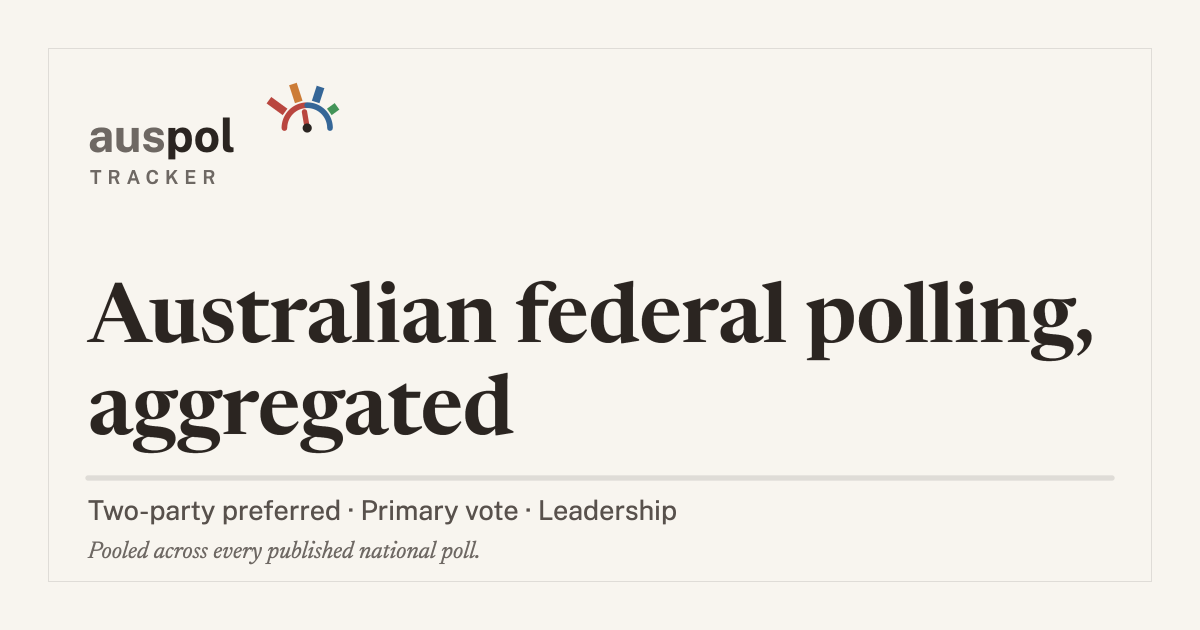
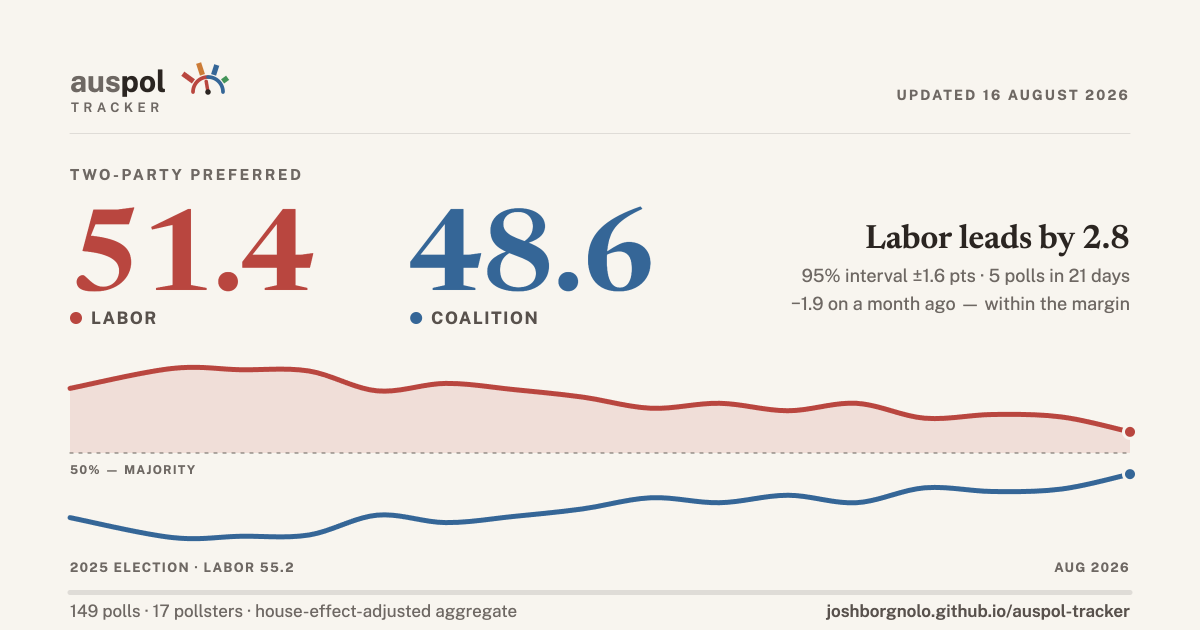
The share card carries the reading, not the masthead
The og:image was a title slide - wordmark, headline, standfirst - which told a
reader nothing the link text had not already said. For most people a link
preview IS the article; they never click. A polling tracker's card should
answer the question the link raises.

It now carries the 2PP figures, the margin, the interval around it, and the
whole term's trend, with the lead shaded from Labor's line down to the majority
line so the narrowing since the 2025 election is the thing you see first.
Everything is read from window.AUSPOL, the object the page itself renders from,
so the card cannot quietly disagree with the page it previews.

It also states the uncertainty, and says "within the margin" when a
month-on-month move does not clear its own interval - which this one does not,
at -1.9 against ±2.2. The page refuses to call such a move real, and a card
that dropped that caveat while quoting the same numbers would be using the
site's own figures against its method.

I had argued for a generic card on the grounds that figures would go stale.
That was wrong: the card is redrawn from the same data the page is built from,
and scrapers cache on the full URL, so a redraw only needs a new URL. Both
halves of that are now handled:

  - assets/auspol-card.json records the data date the card was drawn for, and
    build.mjs prints a loud notice when it diverges from the current data. It
    does not fail the build, since the card is not load-bearing, but it will
[…]

diff --git a/.build/newtracker/make-card.js b/.build/newtracker/make-card.js
@@ -1,30 +1,43 @@
-/* make-card.js – regenerate assets/auspol-card.png (the og:image share card).
+/* make-card.js – regenerate assets/auspol-card.png, the og:image share card.
 
-   NOT part of `node build.mjs`. The card carries no live figures, so it only
-   needs regenerating when the BRANDING changes, not when the data does. That
-   is deliberate: a card with numbers on it would be stale the moment a new
-   poll landed, and every scraper caches it anyway.
+   WHY IT IS NOT PART OF build.mjs
+   The card is a raster image and nothing in the toolchain can rasterise one:
+   the build is plain node, with no headless browser and no image library. It
+   also draws with the site's own typefaces, and canvas text picks those up
+   only from a document that has already loaded them - rasterising an SVG
+   instead falls back to system fonts, which is what let the previous card
+   drift off-brand without anyone noticing.
 
-   It runs in the page rather than in node because it draws with the site's own
-   typefaces — Newsreader and Public Sans are loaded by index.html, and canvas
-   text picks them up from the document. Rasterising an SVG instead would fall
-   back to system fonts, which is what made the previous card drift off-brand.
+   So it runs in the page, by hand. build.mjs cannot make the card, but it does
+   refuse to let it go stale silently: it compares assets/auspol-card.json
+   against the current data date and prints a loud notice when they diverge,
+   and it cache-busts the og:image URL with that date so scrapers refetch a new
+   card instead of serving a cached old one.
 
-   To regenerate:
-     1. serve the repo   (node .claude/serve.js)
-     2. open index.html in a browser, then paste this file into the console
-     3. it downloads auspol-card.png – move it to assets/
+   WHAT IT SHOWS
+   The card used to be a title slide - the masthead and a standfirst - which
+   told a reader nothing the link text had not already. For most people a link
+   preview IS the article, so this one carries the actual reading: the 2PP
+   figures, the margin, the interval around it, and the whole term's trend with
+   the lead shaded from the leader's line down to the majority line. Every
+   value is read from window.AUSPOL, the same object the page renders from, so
+   the card cannot contradict the page it previews.
 
-   The dial is the masthead glyph on the same geometry as the favicon in
-   build.mjs: graduation bars are the latest primary aggregate sorted tallest
-   first, the needle is the 2PP margin. It reads them from window.AUSPOL, so
-   the mark on the card matches the mark on the page. */
+   It states the uncertainty and, when a month-on-month move does not clear its
+   own interval, says so - the page refuses to call such a move real, and a
+   card that dropped that caveat would be quoting the site against itself.
+
+   TO REGENERATE
+     1. node .claude/serve.js
+     2. open index.html in a browser
+     3. paste this whole file into the console; it downloads auspol-card.png
+     4. move it to assets/ and update assets/auspol-card.json to the new
+        `updatedISO` (the script prints it)
+*/
 (async () => {
   await document.fonts.ready;
-  const D = window.AUSPOL;
-  const lp = D.aggPrimary[D.aggPrimary.length - 1];
-  const g2 = D.agg2pp[D.agg2pp.length - 1];
-  const W = 1200, H = 630, S = 2;                  // draw at 2x, export at 1x
+  const D = window.AUSPOL, L = D.latest;
+  const W = 1200, H = 630, S = 2;              // draw at 2x, export at 1x
   const cv = document.createElement("canvas");
   cv.width = W * S; cv.height = H * S;
   const c = cv.getContext("2d"); c.scale(S, S);
@@ -39,60 +52,140 @@
     lnp: R("oklch(0.50 0.095 250)"), grn: R("oklch(0.60 0.120 150)"),
     onp: R("oklch(0.66 0.130 58)"),
   };
+  const lead = L.alp2pp >= L.lnp2pp ? "alp" : "lnp";
+  T.fill = R(lead === "alp" ? "oklch(0.55 0.150 27 / 0.13)" : "oklch(0.50 0.095 250 / 0.13)");
 
   c.fillStyle = T.bg; c.fillRect(0, 0, W, H);
-  c.strokeStyle = T.line; c.lineWidth = 1; c.strokeRect(48.5, 48.5, W - 97, H - 97);
-
-  const M = 88;
+  const PAD = 70;
   c.textBaseline = "alphabetic";
-  c.font = '700 46px "Public Sans", sans-serif';
-  c.fillStyle = T.ink3; c.fillText("aus", M, 152);
-  const wA = c.measureText("aus").width;
-  c.fillStyle = T.ink; c.fillText("pol", M + wA, 152);
-  const wP = c.measureText("pol").width;
-  c.font = '600 19px "Public Sans", sans-serif'; c.fillStyle = T.ink3;
-  c.letterSpacing = "6px"; c.fillText("TRACKER", M + 2, 184); c.letterSpacing = "0px";
+  const caps = (t, x, y, size, ls, col, w) => {
+    c.font = `${w || 700} ${size}px "Public Sans", sans-serif`;
+    c.fillStyle = col; c.letterSpacing = ls + "px"; c.fillText(t, x, y);
+    const m = c.measureText(t).width; c.letterSpacing = "0px"; return m;
+  };
 
+  /* ---- masthead --------------------------------------------------------- */
+  c.font = '700 30px "Public Sans", sans-serif';
+  c.fillStyle = T.ink3; c.fillText("aus", PAD, 92); const wA = c.measureText("aus").width;
+  c.fillStyle = T.ink;  c.fillText("pol", PAD + wA, 92); const wP = c.measureText("pol").width;
+  caps("TRACKER", PAD + 1, 112, 13, 4.5, T.ink3, 600);
+
+  /* the masthead dial, same geometry and same data as the favicon in build.mjs:
+     graduation bars are the latest primary aggregate sorted tallest first, the
+     needle is the 2PP margin */
   (function dial(cx, cy, k) {
-    const r = 12 * k;
-    const rad = (d) => ((d - 90) * Math.PI) / 180;
+    const r = 12 * k, rad = (d) => ((d - 90) * Math.PI) / 180;
     const P = (d, rr) => ({ x: cx + Math.sin((d * Math.PI) / 180) * rr,
                             y: cy - Math.cos((d * Math.PI) / 180) * rr });
-    const arc = (d1, d2, col) => { c.beginPath(); c.arc(cx, cy, r, rad(d1), rad(d2));
-      c.strokeStyle = col; c.lineWidth = 3.0 * k; c.lineCap = "round"; c.stroke(); };
+    const arc = (a, b, col) => { c.beginPath(); c.arc(cx, cy, r, rad(a), rad(b));
+      c.strokeStyle = col; c.lineWidth = 3 * k; c.lineCap = "round"; c.stroke(); };
     arc(-90, 0, T.alp); arc(0, 90, T.lnp);
-    const parties = [["alp", lp.alp], ["lnp", lp.lnp], ["grn", lp.grn], ["onp", lp.onp]]
+    const lp = D.aggPrimary[D.aggPrimary.length - 1];
+    const ps = [["alp", lp.alp], ["lnp", lp.lnp], ["grn", lp.grn], ["onp", lp.onp]]
       .sort((a, b) => b[1] - a[1]);
-    const vs = parties.map((p) => p[1]), mn = Math.min(...vs), mx = Math.max(...vs);
-    const ang = [-54, -18, 18, 54];
-    parties.forEach((p, i) => {
-      const h = (mx === mn ? 10.5 : 5 + ((p[1] - mn) / (mx - mn)) * 5.5) * k;
-      const inn = P(ang[i], r + 2.4 * k), out = P(ang[i], r + 2.4 * k + h);
-      c.beginPath(); c.moveTo(inn.x, inn.y); c.lineTo(out.x, out.y);
-      c.strokeStyle = T[p[0]]; c.lineWidth = 4.2 * k; c.lineCap = "butt"; c.stroke();
+    const vs = ps.map((p) => p[1]), mn = Math.min(...vs), mx = Math.max(...vs);
+    [-54, -18, 18, 54].forEach((a, i) => {
+      const h = (mx === mn ? 10.5 : 5 + ((ps[i][1] - mn) / (mx - mn)) * 5.5) * k;
+      const q = P(a, r + 2.4 * k), o = P(a, r + 2.4 * k + h);
+      c.beginPath(); c.moveTo(q.x, q.y); c.lineTo(o.x, o.y);
+      c.strokeStyle = T[ps[i][0]]; c.lineWidth = 4.2 * k; c.lineCap = "butt"; c.stroke();
     });
-    const margin = g2.alp - g2.lnp;
-    const deg = -Math.max(-1, Math.min(1, margin / 12)) * 34;
-    const tip = P(deg, 8.6 * k);
+    const g2 = D.agg2pp[D.agg2pp.length - 1], m = g2.alp - g2.lnp;
+    const tip = P(-Math.max(-1, Math.min(1, m / 12)) * 34, 8.6 * k);
     c.beginPath(); c.moveTo(cx, cy); c.lineTo(tip.x, tip.y);
-    c.strokeStyle = margin >= 0 ? T.alp : T.lnp; c.lineWidth = 2.8 * k;
+    c.strokeStyle = m >= 0 ? T.alp : T.lnp; c.lineWidth = 2.8 * k;
     c.lineCap = "round"; c.stroke();
-    c.beginPath(); c.arc(cx, cy, 2.4 * k, 0, 7); c.fillStyle = T.ink; c.fill();
-  })(M + wA + wP + 72, 128, 1.9);
+    c.beginPath(); c.arc(cx, cy, 2.2 * k, 0, 7); c.fillStyle = T.ink; c.fill();
+  })(PAD + wA + wP + 42, 92, 1.25);
 
-  c.fillStyle = T.ink; c.font = "600 82px Newsreader, Georgia, serif";
-  c.fillText("Australian federal polling,", M, 342);
-  c.fillText("aggregated", M, 434);
-  c.strokeStyle = T.line; c.beginPath(); c.moveTo(M, 478); c.lineTo(W - M, 478); c.stroke();
-  c.fillStyle = T.ink2; c.font = '400 27px "Public Sans", sans-serif';
-  c.fillText("Two-party preferred · Primary vote · Leadership", M, 520);
-  c.fillStyle = T.ink3; c.font = "italic 400 24px Newsreader, Georgia, serif";
-  c.fillText("Pooled across every published national poll.", M, 558);
+  c.textAlign = "right";
+  caps("UPDATED " + L.updated.toUpperCase(), W - PAD, 100, 14, 2.2, T.ink3, 700);
+  c.textAlign = "left";
+  c.strokeStyle = T.line; c.lineWidth = 1;
+  c.beginPath(); c.moveTo(PAD, 133.5); c.lineTo(W - PAD, 133.5); c.stroke();
 
+  /* ---- the figures ------------------------------------------------------ */
+  caps("TWO-PARTY PREFERRED", PAD, 180, 15, 2.6, T.ink3, 700);
+  const FIG_Y = 290, LAB_Y = 324;
+  const fig = (x, label, val, col) => {
+    c.font = "600 112px Newsreader, Georgia, serif"; c.fillStyle = col;
+    c.fillText(val.toFixed(1), x, FIG_Y);
+    const w = c.measureText(val.toFixed(1)).width;
+    // label BELOW the figure: beside it, the ascenders collided with the caps
+    c.beginPath(); c.arc(x + 6, LAB_Y - 6, 6, 0, 7); c.fillStyle = col; c.fill();
+    caps(label, x + 21, LAB_Y, 17, 1.6, T.ink2, 700);
+    return w;
+  };
+  const wL = fig(PAD, "LABOR", L.alp2pp, T.alp);
+  fig(PAD + wL + 96, "COALITION", L.lnp2pp, T.lnp);
+
+  const marg = L.alp2pp - L.lnp2pp, chg = L.alp2pp - L.alp2ppPrev;
+  c.textAlign = "right";
+  c.font = "600 33px Newsreader, Georgia, serif"; c.fillStyle = T.ink;
+  c.fillText((marg >= 0 ? "Labor" : "Coalition") + " leads by " + Math.abs(marg).toFixed(1), W - PAD, 248);
+  c.font = '400 18px "Public Sans", sans-serif'; c.fillStyle = T.ink3;
+  c.fillText("95% interval ±" + L.alp2ppCi95.toFixed(1) + " pts · "
+             + L.method.nPolls + " polls in " + L.method.windowDays + " days", W - PAD, 282);
+  // the page will not call a move real unless it clears its own interval
+  c.fillText((chg > 0 ? "+" : "−") + Math.abs(chg).toFixed(1) + " on a month ago"
+             + (L.changeSig ? "" : " — within the margin"), W - PAD, 310);
+  c.textAlign = "left";
+
+  /* ---- the term's trend -------------------------------------------------- */
+  const CX0 = PAD, CX1 = W - PAD, CY0 = 366, CY1 = 540;
+  const xs = D.agg2pp.map((d) => d.x), x0 = Math.min(...xs), x1 = Math.max(...xs);
+  const y0 = 43, y1 = 57;
+  const sx = (x) => CX0 + ((x - x0) / (x1 - x0)) * (CX1 - CX0);
+  const sy = (y) => CY1 - ((y - y0) / (y1 - y0)) * (CY1 - CY0);
+  const curve = (pts) => { for (let i = 0; i < pts.length - 1; i++) {
+    const p0 = pts[i - 1] || pts[i], p1 = pts[i], p2 = pts[i + 1], p3 = pts[i + 2] || p2;
+    c.bezierCurveTo(p1[0] + (p2[0] - p0[0]) / 6, p1[1] + (p2[1] - p0[1]) / 6,
+                    p2[0] - (p3[0] - p1[0]) / 6, p2[1] - (p3[1] - p1[1]) / 6, p2[0], p2[1]); } };
+  const aPts = D.agg2pp.map((d) => [sx(d.x), sy(d.alp)]);
+  const lPts = D.agg2pp.map((d) => [sx(d.x), sy(d.lnp)]);
+
+  /* Shade the LEAD - the leader's line down to 50% - not the gap between the
+     two lines. The lines are exact complements, so the gap is twice the margin
+     and reads as a heavier claim than the data makes; the lead is the margin
+     itself, and watching it thin out from the election to now is the story. */
+  const ldPts = lead === "alp" ? aPts : lPts;
+  c.beginPath(); c.moveTo(ldPts[0][0], ldPts[0][1]); curve(ldPts);
+  c.lineTo(CX1, sy(50)); c.lineTo(CX0, sy(50)); c.closePath();
+  c.fillStyle = T.fill; c.fill();
+
+  c.setLineDash([3, 6]); c.strokeStyle = T.ink3; c.lineWidth = 1.4; c.globalAlpha = 0.7;
+  c.beginPath(); c.moveTo(CX0, sy(50)); c.lineTo(CX1, sy(50)); c.stroke();
+  c.setLineDash([]); c.globalAlpha = 1;
+  caps("50% — MAJORITY", CX0, sy(50) + 21, 12, 1.3, T.ink3, 700);
+
+  [[lPts, T.lnp], [aPts, T.alp]].forEach(([pts, col]) => {
+    c.beginPath(); c.moveTo(pts[0][0], pts[0][1]); curve(pts);
+    c.strokeStyle = col; c.lineWidth = 5; c.lineCap = "round"; c.lineJoin = "round"; c.stroke();
+    const e = pts[pts.length - 1];
+    c.beginPath(); c.arc(e[0], e[1], 8, 0, 7); c.fillStyle = T.bg; c.fill();
+    c.beginPath(); c.arc(e[0], e[1], 5, 0, 7); c.fillStyle = col; c.fill();
+  });
+  // the term's two ends, so the trend is anchored rather than floating
+  caps("2025 ELECTION · LABOR " + D.agg2pp[0].alp.toFixed(1), CX0, CY1 + 32, 13, 1.4, T.ink3, 700);
+  c.textAlign = "right"; caps("AUG 2026", CX1, CY1 + 32, 13, 1.4, T.ink3, 700); c.textAlign = "left";
+
+  /* ---- footer ------------------------------------------------------------ */
+  c.strokeStyle = T.line; c.beginPath(); c.moveTo(PAD, 592.5); c.lineTo(W - PAD, 592.5); c.stroke();
+  c.font = '400 17px "Public Sans", sans-serif'; c.fillStyle = T.ink3;
+  c.fillText(L.pollsTracked + " polls · " + L.housesTracked
+             + " pollsters · house-effect-adjusted aggregate", PAD, 617);
+  c.textAlign = "right"; c.font = '600 17px "Public Sans", sans-serif'; c.fillStyle = T.ink2;
+  c.fillText("joshborgnolo.github.io/auspol-tracker", W - PAD, 617); c.textAlign = "left";
+
+  /* ---- export at exactly 1200x630, supersampled from the 2x draw --------- */
   const out = document.createElement("canvas"); out.width = W; out.height = H;
   const oc = out.getContext("2d");
   oc.imageSmoothingEnabled = true; oc.imageSmoothingQuality = "high";
   oc.drawImage(cv, 0, 0, W, H);
+  const png = out.toDataURL("image/png");
+  window.__auspolCard = { png, updatedISO: L.updatedISO };
+  console.log("card drawn for data dated " + L.updatedISO
+              + " – put this in assets/auspol-card.json");
   const a = document.createElement("a");
-  a.download = "auspol-card.png"; a.href = out.toDataURL("image/png"); a.click();
+  a.download = "auspol-card.png"; a.href = png; a.click();
 })();

diff --git a/index.html b/index.html
@@ -17,10 +17,10 @@
   <meta property="og:site_name" content="auspol tracker">
   <meta property="og:locale" content="en_AU">
   <meta property="og:url" content="https://joshborgnolo.github.io/auspol-tracker/">
-  <meta property="og:image" content="https://joshborgnolo.github.io/auspol-tracker/assets/auspol-card.png">
+  <meta property="og:image" content="https://joshborgnolo.github.io/auspol-tracker/assets/auspol-card.png?v=2026-08-16">
   <meta property="og:image:width" content="1200">
   <meta property="og:image:height" content="630">
-  <meta property="og:image:alt" content="auspol tracker – an aggregate of Australian federal voting intention">
+  <meta property="og:image:alt" content="auspol tracker: Labor 51.4, Coalition 48.6 two-party preferred, ±1.6 points, updated 16 August 2026, with the trend since the 2025 election">
   <meta name="twitter:card" content="summary_large_image">
   <meta name="theme-color" content="#f6f1e7" media="(prefers-color-scheme: light)">
   <meta name="theme-color" content="#14110d" media="(prefers-color-scheme: dark)">

diff --git a/README.md b/README.md
@@ -83,14 +83,33 @@ module: the Snapshot scatter plots it on load.
 
 ### Share card
 
-`assets/auspol-card.png` (1200x630) is the `og:image`. It carries no live
-figures on purpose – a card with numbers would be stale the moment a new poll
-landed, and scrapers cache it regardless – so it is NOT rebuilt by `build.mjs`.
-Regenerate it only when the branding changes, using
-`.build/newtracker/make-card.js` (instructions in its header). It draws on a
-canvas inside the live page so it picks up the site's real typefaces; the
-previous card was rasterised separately and had drifted onto the predecessor's
-wording and system fonts.
+`assets/auspol-card.png` (1200x630) is the `og:image`, and it carries the live
+reading: the 2PP figures, the margin and its interval, and the whole term's
+trend with the lead shaded down to the majority line. Every value is read from
+the same `window.AUSPOL` the page renders from, so the card cannot contradict
+the page it previews. It states the uncertainty, and says so when a
+month-on-month move does not clear it — the page refuses to call such a move
+real, and a card that dropped that caveat would quote the site against itself.
+
+Because it carries figures it can be **wrong**, which the previous generic card
+could not be. Two things guard that:
+
+- `assets/auspol-card.json` records the data date the card was drawn for.
+  `build.mjs` compares it against the current data and prints a loud notice
+  when they diverge. It does not fail the build — the card is not load-bearing
+  — but it will not let a stale one pass unremarked.
+- `og:image` carries `?v=<that date>`. Scrapers key their caches on the full
+  URL, so a redraw is a new URL and they refetch instead of serving the old
+  card.
+
+`build.mjs` cannot draw it: there is no rasteriser in the toolchain, and the
+card needs the page's own webfonts — canvas text picks those up only from a
+document that has already loaded them, and rasterising an SVG instead falls
+back to system fonts, which is how the previous card drifted off-brand
+unnoticed. So regeneration is a hand step, documented in the header of
+`.build/newtracker/make-card.js`: serve the repo, open `index.html`, paste the
+file into the console, move the download into `assets/`, and update the date in
+`assets/auspol-card.json`.
 
 ### Fonts
 
